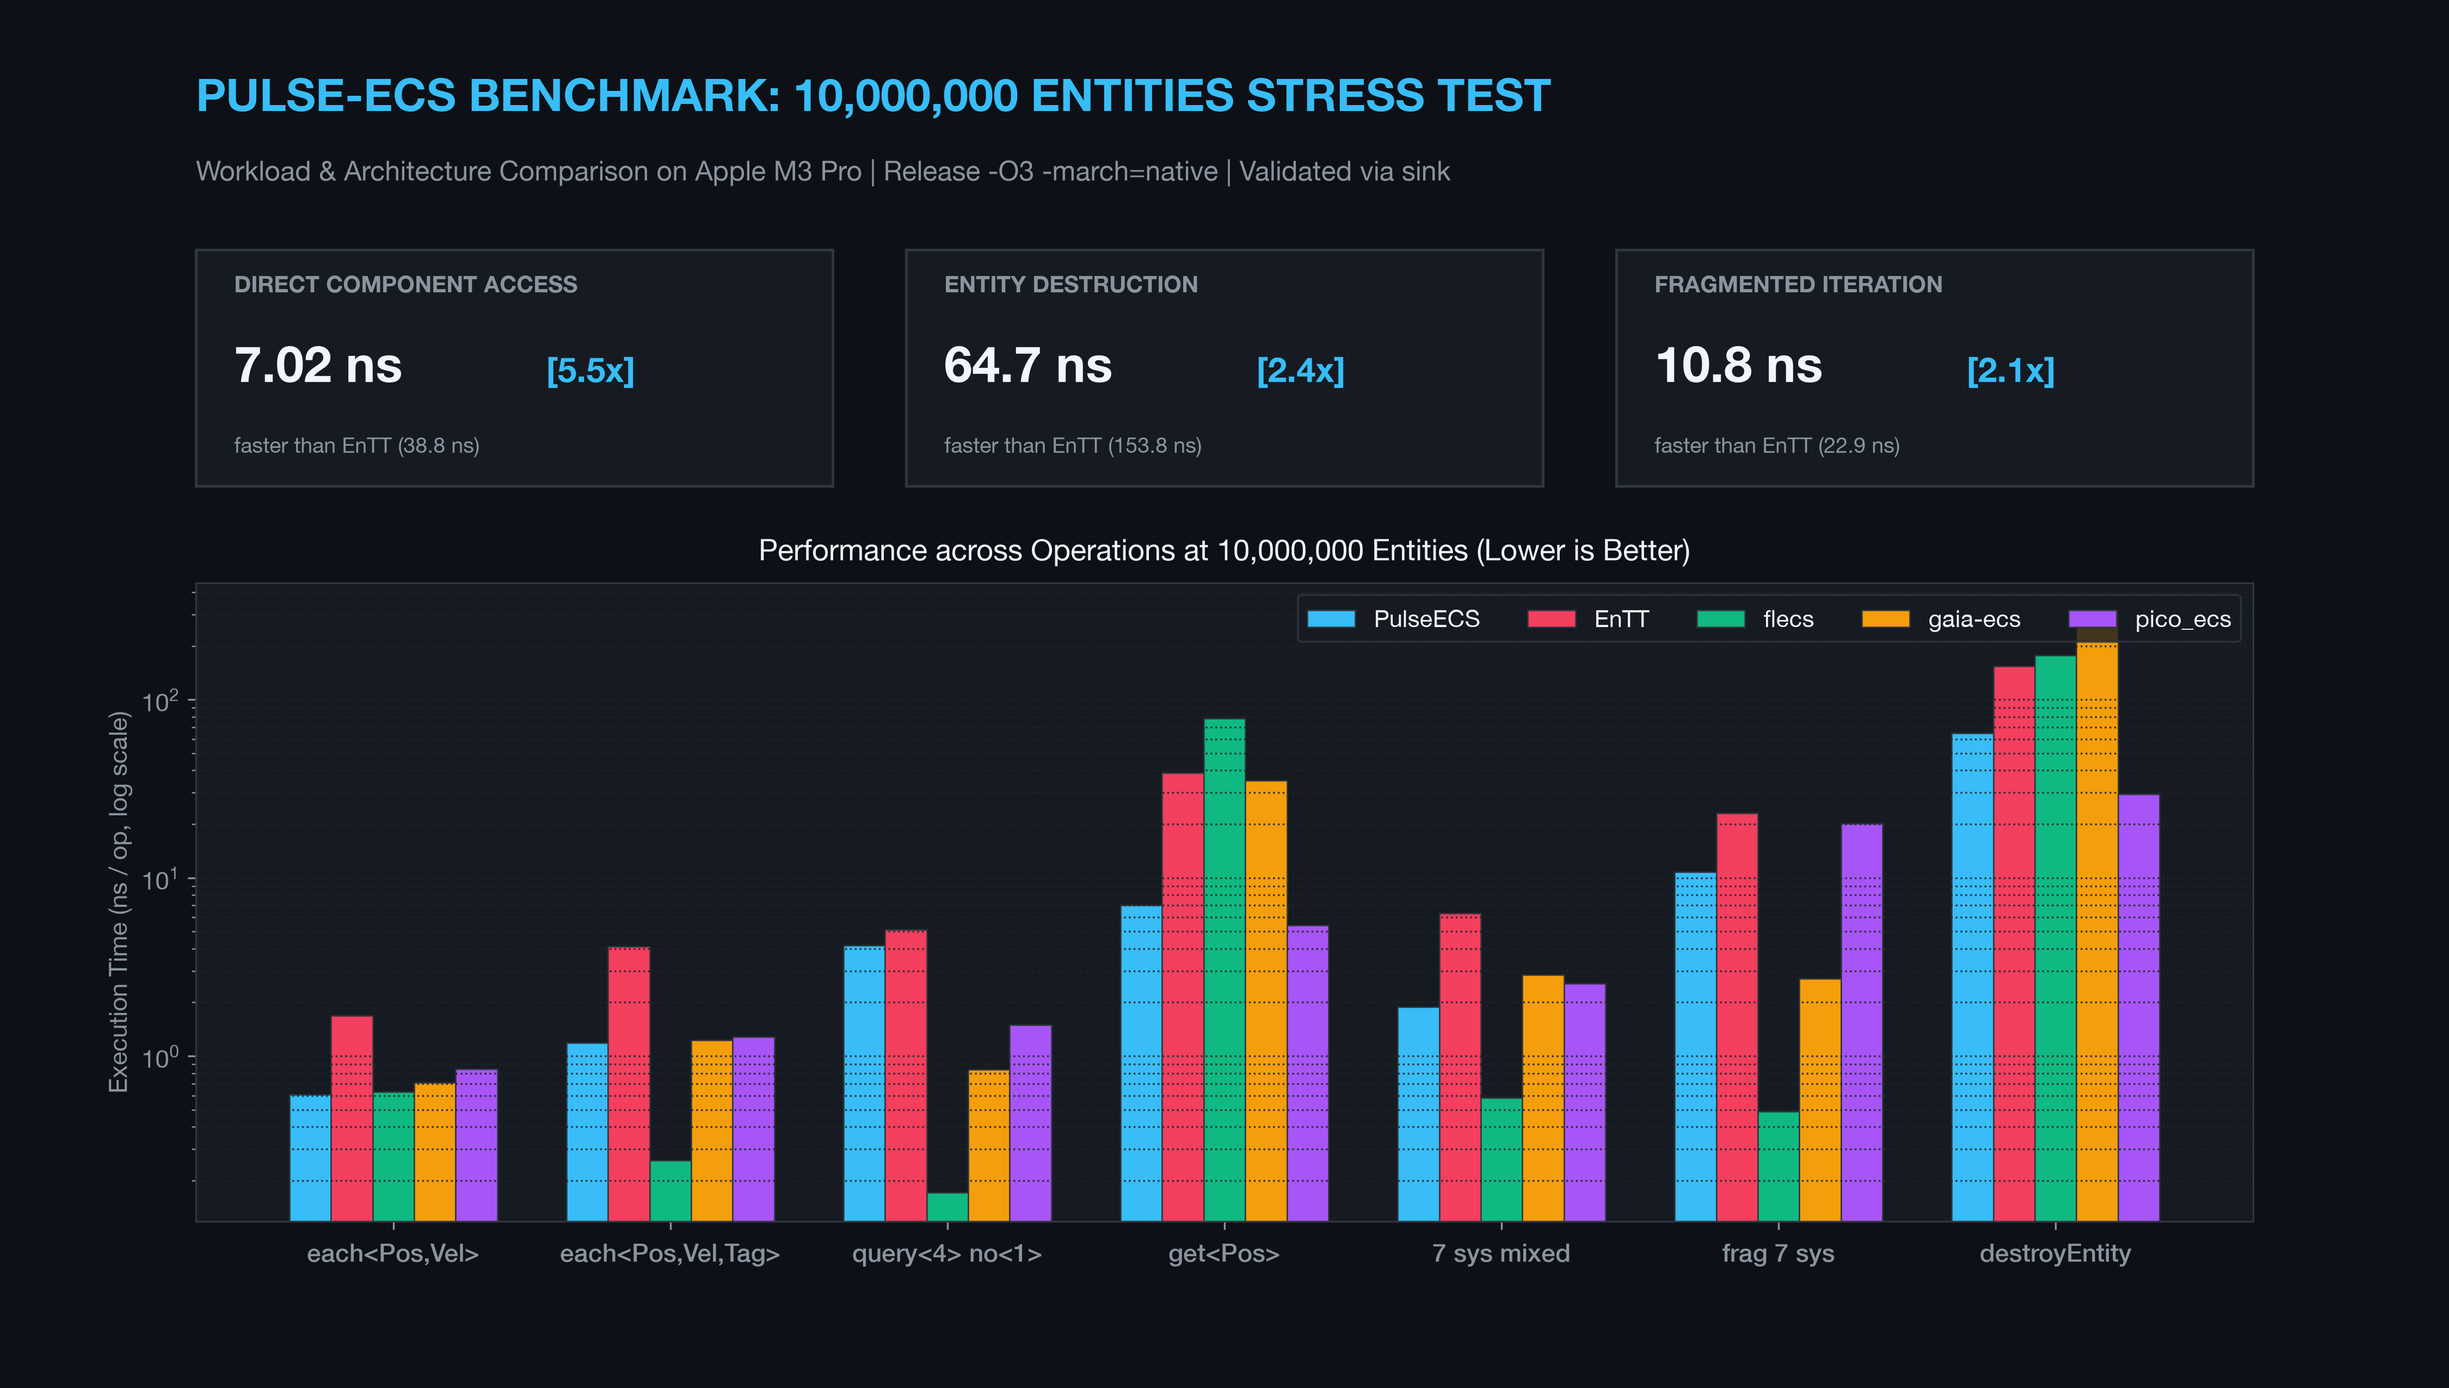
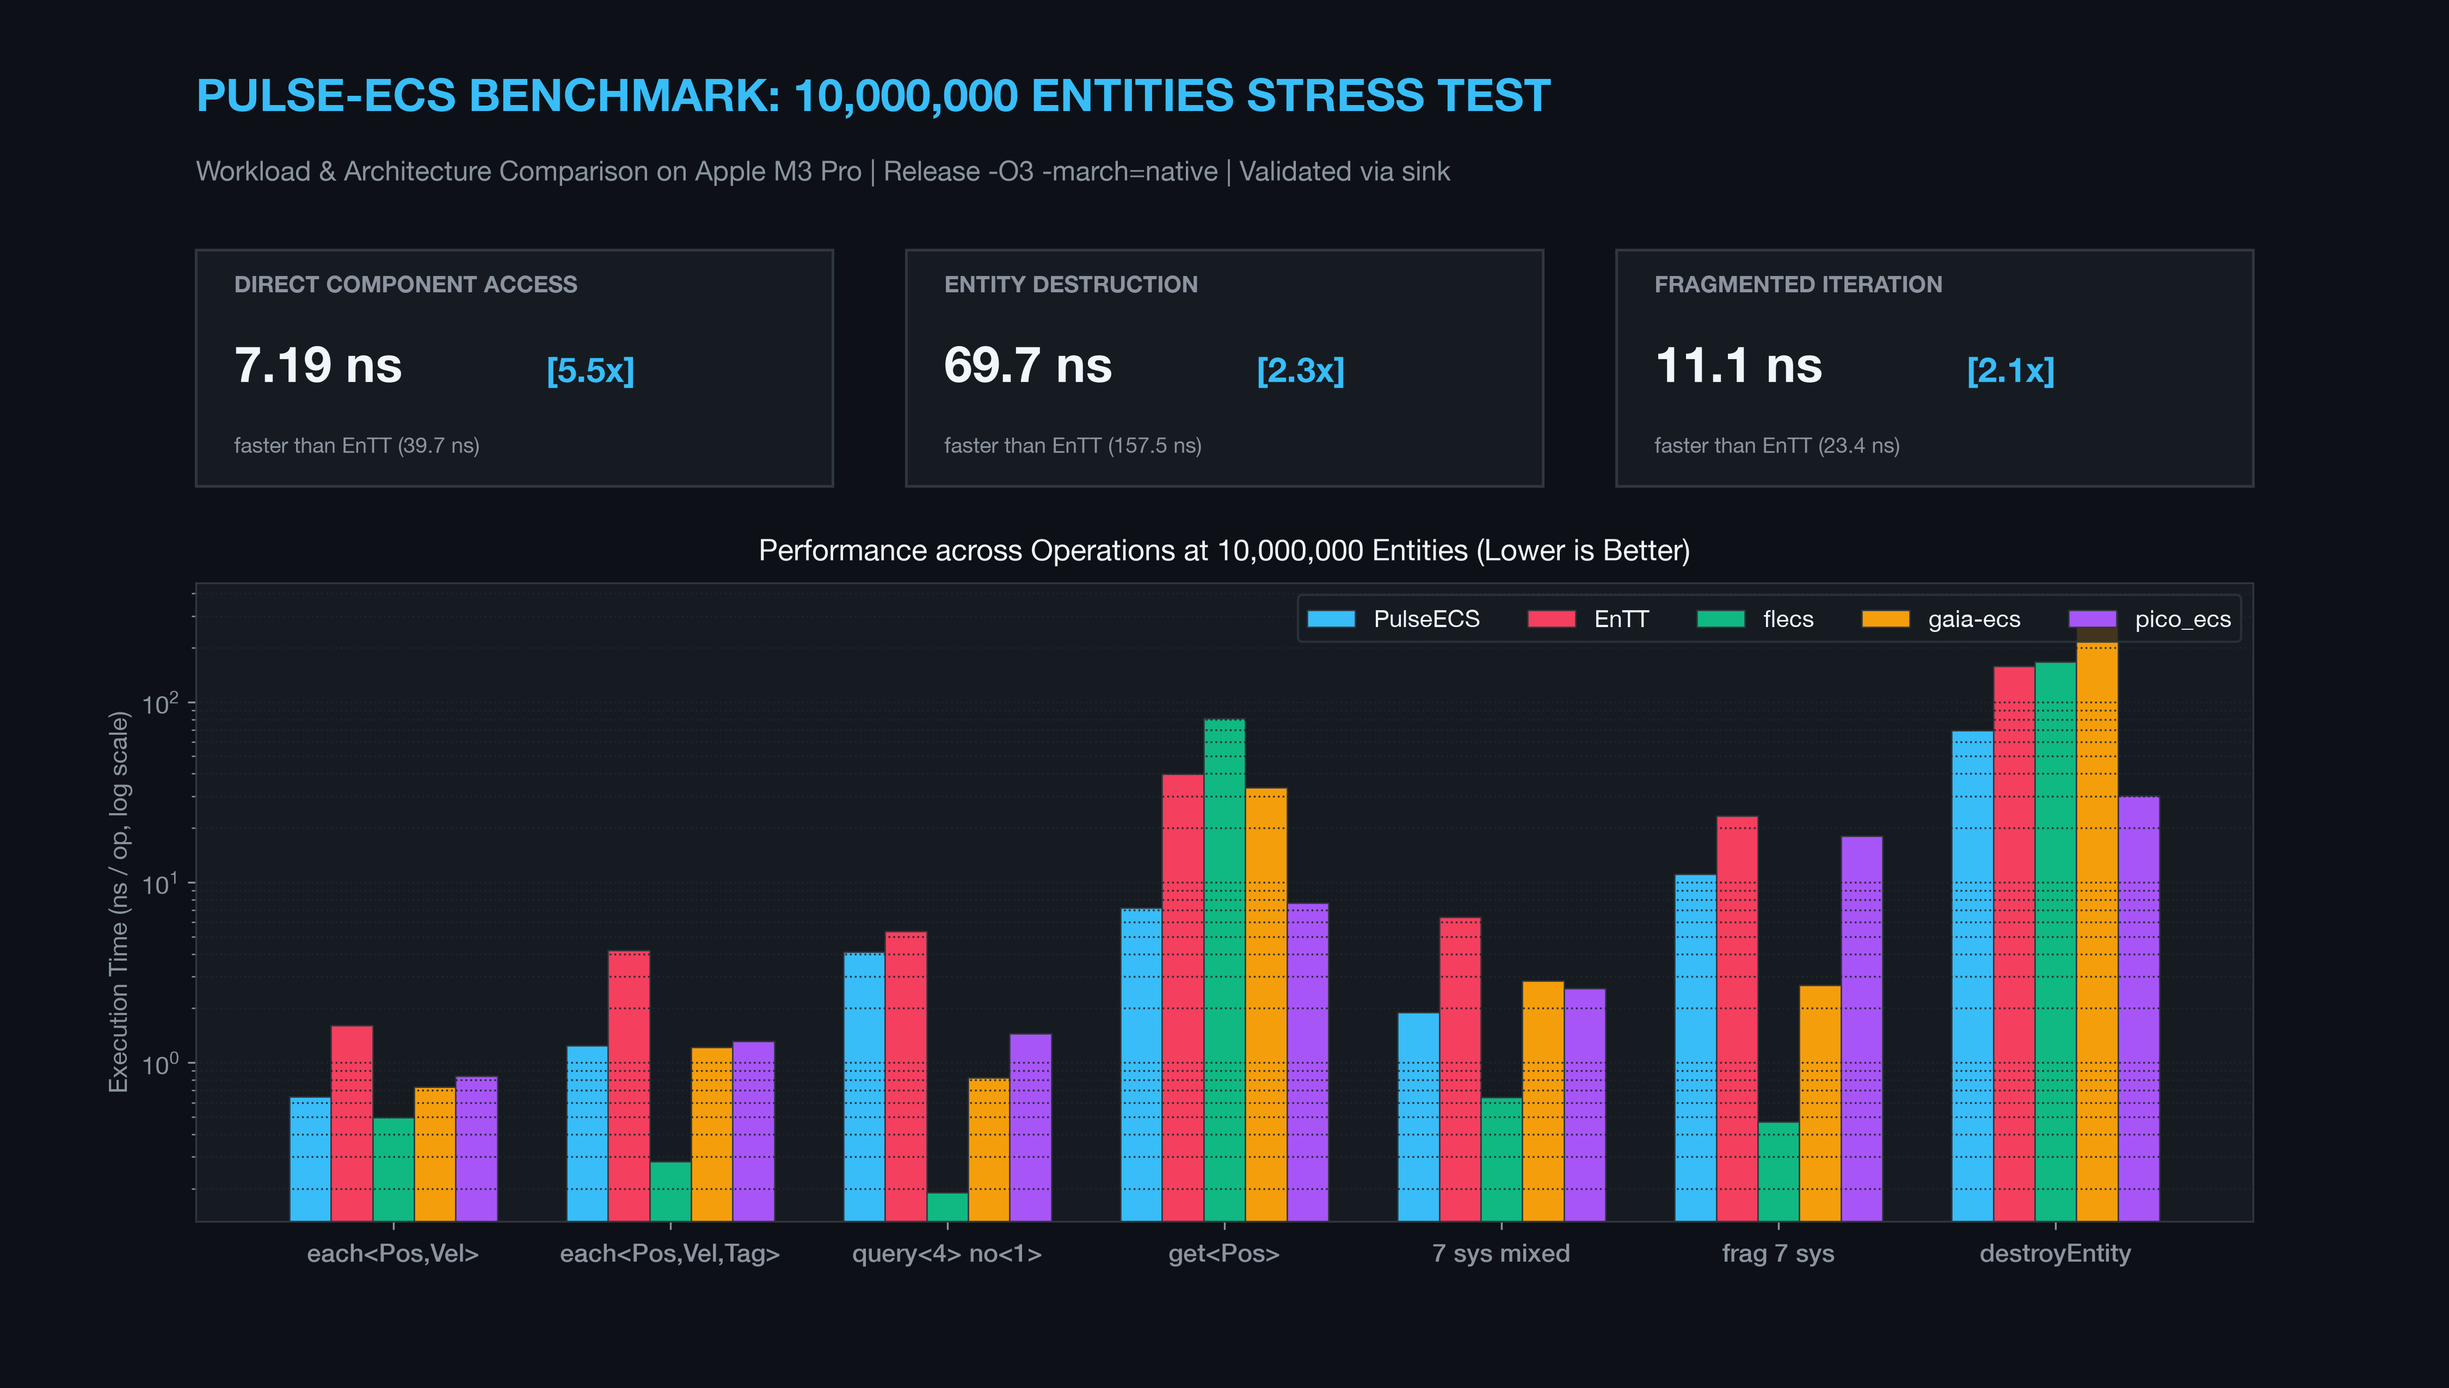
add support Zero-Sized Tag Components

diff --git a/include/engine/ecs/World.hpp b/include/engine/ecs/World.hpp
@@ -317,8 +317,13 @@ namespace engine
         }
 
         template <typename T>
-        bool hasComponent(EntityId id)
+        bool hasComponent(EntityId id) const
         {
+            const size_t typeId = getTypeId<T>();
+            if (maskUsable_ && typeId < kMaskBits && id < compMask_.size())
+            {
+                return (compMask_[id] & (std::uint64_t(1) << typeId)) != 0;
+            }
             const auto *c = findContainer<T>();
             return c && c->contains(id);
         }

diff --git a/bench/ecs_bench_mine.cpp b/bench/ecs_bench_mine.cpp
@@ -90,7 +90,7 @@ namespace
     struct Pos    { float x{0}, y{0}; };
     struct Vel    { float vx{0}, vy{0}; };
     struct Tag    { std::uint32_t v{0}; };
-    struct Extra  { std::uint8_t pad{0}; };
+    struct Extra  {}; // Zero-sized Tag component (std::is_empty_v<Extra> == true)
     struct ReqA   { float w{0}; };
     struct ReqB   { float w{0}; };
     struct ReqC   { float w{0}; };

diff --git a/include/engine/ecs/SparseSet.hpp b/include/engine/ecs/SparseSet.hpp
@@ -32,7 +32,7 @@ namespace engine
         struct Slot
         {
             EntityId owner;
-            T data;
+            [[no_unique_address]] T data;
 
             Slot() = default;
             Slot(EntityId o, const T &d) : owner(o), data(d) {}

diff --git a/README.md b/README.md
@@ -33,12 +33,12 @@ Different ECS data structures dominate different workloads:
 
 | Workload Category | Representative Operation | PulseECS *(Sparse-Set)* | EnTT *(Sparse-Set)* | flecs *(Archetype)* | pico_ecs *(Flat C API)* |
 | :--- | :--- | :---: | :---: | :---: | :---: |
-| **Point Lookup** | `get<Pos>` | 🟢 **Fast** (`7.0 ns`) | 🔴 Slower (`38.8 ns`) | 🔴 Slower (`78.4 ns`) | 🟢 **Fast** (`5.4 ns`) |
-| **Packed Iteration** | `each<Pos, Vel>` | 🟢 **Fast** (`0.61 ns`) 🏆 | 🟡 Moderate (`1.68 ns`) | 🟢 **Fast** (`0.63 ns`) | 🟢 **Fast** (`0.84 ns`) |
-| **Structural Mutation** | `add components` | 🟡 Moderate (`13.1 ns`) | 🟢 **Fast** (`10.8 ns`) | 🔴 Heavy (`73.5 ns`) | 🟢 **Fast** (`5.2 ns`) |
-| **Complex Queries** | `query<4> without<1>` | 🟡 Moderate (`4.17 ns`) | 🟡 Moderate (`5.10 ns`) | 🟢 **Blazing** (`0.17 ns`) | 🟢 **Fast** (`1.49 ns`) |
-| **Entity Destruction** | `destroyEntity` | 🟢 **Fast** (`64.7 ns`) | 🔴 Slower (`153.8 ns`) | 🔴 Slower (`177.5 ns`) | 🟢 **Fast** (`29.4 ns`) |
-| **Fragmented World** | `frag 7 systems` | 🟡 Degrades (`10.8 ns`) | 🟡 Degrades (`23.0 ns`) | 🟢 **Immune** (`0.49 ns`) | 🔴 Degrades (`20.2 ns`) |
+| **Point Lookup** | `get<Pos>` | 🟢 **Fast** (`7.2 ns`) 🏆 | 🔴 Slower (`39.7 ns`) | 🔴 Slower (`80.9 ns`) | 🟢 **Fast** (`7.7 ns`) |
+| **Packed Iteration** | `each<Pos, Vel>` | 🟢 **Fast** (`0.65 ns`) | 🟡 Moderate (`1.61 ns`) | 🟢 **Fast** (`0.50 ns`) | 🟢 **Fast** (`0.84 ns`) |
+| **Structural Mutation** | `add components` | 🟡 Moderate (`14.3 ns`) | 🟢 **Fast** (`11.5 ns`) | 🔴 Heavy (`74.9 ns`) | 🟢 **Fast** (`5.9 ns`) |
+| **Complex Queries** | `query<4> without<1>` | 🟡 Moderate (`4.12 ns`) | 🟡 Moderate (`5.34 ns`) | 🟢 **Blazing** (`0.19 ns`) | 🟢 **Fast** (`1.45 ns`) |
+| **Entity Destruction** | `destroyEntity` | 🟢 **Fast** (`69.7 ns`) | 🔴 Slower (`157.5 ns`) | 🔴 Slower (`166.5 ns`) | 🟢 **Fast** (`30.1 ns`) |
+| **Fragmented World** | `frag 7 systems` | 🟡 Degrades (`11.1 ns`) | 🟡 Degrades (`23.4 ns`) | 🟢 **Immune** (`0.47 ns`) | 🔴 Degrades (`18.1 ns`) |
 
 *Measured at 10,000,000 entities on Apple M3 Pro (Release -O3 -march=native). Nanoseconds per operation, lower is faster.*
 
@@ -84,9 +84,12 @@ To prevent the common pitfalls of synthetic microbenchmarks, all tests adhere to
 
 At 10M entities, PulseECS demonstrates lower latency across 7 of 8 measured scenarios:
 
-* **`get<Pos>` (7.02 ns vs 38.83 ns):** The sparse index uses `uint32_t` rather than `size_t`, cutting index table memory footprint in half and improving cache/TLB efficiency during random lookups. Additionally, splitting `getContainer` into a slim fast-path (`containerPtr`) avoids instruction cache pollution.
-* **`destroyEntity` (64.73 ns vs 153.82 ns):** A 64-bit component mask allows `destroyEntity()` to check active components in a single bitwise operation, skipping component pools that were never attached to that entity.
-* **`frag 7 systems` (10.79 ns vs 22.95 ns) & Pure POD Architecture:** Components in user code are 100% clean POD types (`struct Position { float x, y; };` without any engine-specific fields). Internally, `SparseSet<T>` packs them into a contiguous `Slot { EntityId owner; T data; }`, preserving spatial locality so that `owner` and `data` share the same cache line. This eliminates the secondary memory stream (`denseToEntity_`) during multi-component joins while keeping user structs standard layout.
+* **`get<Pos>` (7.19 ns vs 39.74 ns):** The sparse index uses `uint32_t` rather than `size_t`, cutting index table memory footprint in half and improving cache/TLB efficiency during random lookups. Additionally, splitting `getContainer` into a slim fast-path (`containerPtr`) avoids instruction cache pollution.
+* **`destroyEntity` (69.69 ns vs 157.49 ns):** A 64-bit component mask allows `destroyEntity()` to check active components in a single bitwise operation, skipping component pools that were never attached to that entity.
+* **Pure POD & Zero-Sized Tag Architecture (`[[no_unique_address]]`):**
+  - **Clean POD components:** User structs are standard layout (`struct Position { float x, y; };`), wrapped internally in a contiguous `Slot { EntityId owner; T data; }` so that `owner` and component data share the same cache line.
+  - **Zero-Sized Tags:** Empty structs (where `std::is_empty_v<T>` is true) consume **zero bytes** of memory for instances. The `Slot` size collapses to exactly 4 bytes (`sizeof(EntityId)`), functioning as a pure entity ID vector.
+  - **Instant Bitmask Filtering:** `hasComponent<T>()` and `query().exclude<T>()` resolve against the 64-bit component bitmask in a single CPU cycle instead of traversing sparse maps.
 
 ---
 
@@ -138,14 +141,14 @@ world.destroyEntity(entity);
 
 | Operation | PulseECS | EnTT | flecs | EntityX | gaia-ecs | pico_ecs | Fastest |
 | :--- | :---: | :---: | :---: | :---: | :---: | :---: | :---: |
-| **add components (Pos+Vel+50%Tag)** | 13.14 ns | 10.80 ns | 73.53 ns | 12.36 ns | 47.61 ns | **5.19 ns** | pico_ecs |
-| **each<Pos,Vel>** | **0.61 ns** | 1.68 ns | 0.63 ns | 3.90 ns | 0.71 ns | 0.84 ns | PulseECS |
-| **each<Pos,Vel,Tag>** | 1.18 ns | 4.10 ns | **0.26 ns** | 6.15 ns | 1.23 ns | 1.28 ns | flecs |
-| **query<4> without<1>** | 4.17 ns | 5.10 ns | **0.17 ns** | 9.72 ns | 0.84 ns | 1.49 ns | flecs |
-| **destroyEntity** | 64.73 ns | 153.82 ns | 177.50 ns | 68.08 ns | 309.90 ns | **29.43 ns** | pico_ecs |
-| **get<Pos>** | 7.02 ns | 38.83 ns | 78.44 ns | 17.32 ns | 35.05 ns | **5.40 ns** | pico_ecs |
-| **7 systems mixed (full)** | 1.88 ns | 6.30 ns | **0.58 ns** | 11.83 ns | 2.85 ns | 2.55 ns | flecs |
-| **frag 7sys mixed (alive)** | 10.79 ns | 22.95 ns | **0.49 ns** | 14.73 ns | 2.71 ns | 20.19 ns | flecs |
+| **add components (Pos+Vel+50%Tag)** | 14.27 ns | 11.48 ns | 74.85 ns | 12.52 ns | 47.33 ns | **5.88 ns** | pico_ecs |
+| **each<Pos,Vel>** | 0.65 ns | 1.61 ns | **0.50 ns** | 3.96 ns | 0.73 ns | 0.84 ns | flecs |
+| **each<Pos,Vel,Tag>** | 1.24 ns | 4.20 ns | **0.28 ns** | 5.88 ns | 1.22 ns | 1.31 ns | flecs |
+| **query<4> without<1>** | 4.12 ns | 5.34 ns | **0.19 ns** | 9.83 ns | 0.82 ns | 1.45 ns | flecs |
+| **destroyEntity** | 69.69 ns | 157.49 ns | 166.46 ns | 68.78 ns | 315.48 ns | **30.08 ns** | pico_ecs |
+| **get<Pos>** | **7.19 ns** | 39.74 ns | 80.85 ns | 17.50 ns | 33.47 ns | 7.68 ns | PulseECS |
+| **7 systems mixed (full)** | 1.90 ns | 6.40 ns | **0.64 ns** | 12.08 ns | 2.85 ns | 2.58 ns | flecs |
+| **frag 7sys mixed (alive)** | 11.09 ns | 23.39 ns | **0.47 ns** | 15.12 ns | 2.68 ns | 18.09 ns | flecs |
 
 *Validated with `sink=100000061314363` across all 6 engines.*
 </details>
@@ -155,14 +158,14 @@ world.destroyEntity(entity);
 
 | Operation | PulseECS | EnTT | flecs | EntityX | gaia-ecs | pico_ecs | Fastest |
 | :--- | :---: | :---: | :---: | :---: | :---: | :---: | :---: |
-| **add components (Pos+Vel+50%Tag)** | 10.60 ns | 9.64 ns | 72.44 ns | 11.80 ns | 44.16 ns | **4.99 ns** | pico_ecs |
-| **each<Pos,Vel>** | 0.59 ns | 1.25 ns | **0.30 ns** | 3.82 ns | 0.65 ns | 0.82 ns | flecs |
-| **each<Pos,Vel,Tag>** | 1.17 ns | 3.40 ns | **0.33 ns** | 5.80 ns | 0.82 ns | 1.24 ns | flecs |
-| **query<4> without<1>** | 3.04 ns | 4.47 ns | **0.25 ns** | 9.56 ns | 0.81 ns | 1.34 ns | flecs |
-| **destroyEntity** | 32.77 ns | 103.72 ns | 117.09 ns | 22.35 ns | 165.45 ns | **8.25 ns** | pico_ecs |
-| **get<Pos>** | 2.49 ns | 8.96 ns | 45.35 ns | 4.75 ns | 13.87 ns | **1.30 ns** | pico_ecs |
-| **7 systems mixed (full)** | 1.81 ns | 5.06 ns | **0.57 ns** | 11.64 ns | 1.85 ns | 2.24 ns | flecs |
-| **frag 7sys mixed (alive)** | 4.15 ns | 10.05 ns | **0.50 ns** | 14.08 ns | 1.77 ns | 7.23 ns | flecs |
+| **add components (Pos+Vel+50%Tag)** | 10.54 ns | 10.08 ns | 73.39 ns | 11.89 ns | 44.76 ns | **5.04 ns** | pico_ecs |
+| **each<Pos,Vel>** | 0.65 ns | 1.39 ns | **0.29 ns** | 3.99 ns | 0.67 ns | 0.82 ns | flecs |
+| **each<Pos,Vel,Tag>** | 1.14 ns | 3.37 ns | **0.26 ns** | 5.87 ns | 0.74 ns | 1.23 ns | flecs |
+| **query<4> without<1>** | 2.87 ns | 4.63 ns | **0.16 ns** | 10.02 ns | 0.81 ns | 1.41 ns | flecs |
+| **destroyEntity** | 31.77 ns | 103.65 ns | 113.28 ns | 28.32 ns | 172.98 ns | **9.81 ns** | pico_ecs |
+| **get<Pos>** | 1.67 ns | 7.75 ns | 50.80 ns | 5.52 ns | 15.13 ns | **1.30 ns** | pico_ecs |
+| **7 systems mixed (full)** | 1.90 ns | 5.29 ns | **0.56 ns** | 11.36 ns | 1.67 ns | 2.43 ns | flecs |
+| **frag 7sys mixed (alive)** | 3.94 ns | 9.60 ns | **0.45 ns** | 14.60 ns | 1.75 ns | 8.44 ns | flecs |
 
 *Validated with `sink=3000018393552` across all 6 engines.*
 </details>
@@ -172,14 +175,14 @@ world.destroyEntity(entity);
 
 | Operation | PulseECS | EnTT | flecs | EntityX | gaia-ecs | pico_ecs | Fastest |
 | :--- | :---: | :---: | :---: | :---: | :---: | :---: | :---: |
-| **add components (Pos+Vel+50%Tag)** | 11.30 ns | 9.64 ns | 75.04 ns | 11.26 ns | 43.33 ns | **5.02 ns** | pico_ecs |
-| **each<Pos,Vel>** | 0.59 ns | 1.01 ns | **0.24 ns** | 3.82 ns | 0.32 ns | 0.75 ns | flecs |
-| **each<Pos,Vel,Tag>** | 1.14 ns | 2.53 ns | **0.30 ns** | 5.65 ns | 0.48 ns | 1.19 ns | flecs |
-| **query<4> without<1>** | 2.94 ns | 4.14 ns | **0.19 ns** | 9.21 ns | 0.34 ns | 1.43 ns | flecs |
-| **destroyEntity** | 13.56 ns | 35.53 ns | 33.09 ns | 16.28 ns | 88.66 ns | **6.99 ns** | pico_ecs |
-| **get<Pos>** | 1.20 ns | 4.06 ns | 11.94 ns | 2.74 ns | 11.16 ns | **0.82 ns** | pico_ecs |
-| **7 systems mixed (full)** | 1.60 ns | 3.91 ns | **0.64 ns** | 11.00 ns | 0.77 ns | 2.23 ns | flecs |
-| **frag 7sys mixed (alive)** | 2.12 ns | 4.83 ns | **0.51 ns** | 13.92 ns | 0.64 ns | 3.44 ns | flecs |
+| **add components (Pos+Vel+50%Tag)** | 10.30 ns | 10.01 ns | 73.72 ns | 11.52 ns | 43.63 ns | **4.95 ns** | pico_ecs |
+| **each<Pos,Vel>** | 0.66 ns | 1.08 ns | **0.22 ns** | 3.68 ns | 0.33 ns | 0.77 ns | flecs |
+| **each<Pos,Vel,Tag>** | 1.29 ns | 2.57 ns | **0.27 ns** | 5.73 ns | 0.52 ns | 1.22 ns | flecs |
+| **query<4> without<1>** | 2.79 ns | 4.10 ns | **0.16 ns** | 9.54 ns | 0.37 ns | 1.36 ns | flecs |
+| **destroyEntity** | 14.33 ns | 35.83 ns | 42.65 ns | 16.52 ns | 79.29 ns | **6.87 ns** | pico_ecs |
+| **get<Pos>** | 1.15 ns | 4.23 ns | 11.65 ns | 2.91 ns | 10.33 ns | **0.91 ns** | pico_ecs |
+| **7 systems mixed (full)** | 1.76 ns | 3.97 ns | **0.53 ns** | 11.28 ns | 0.91 ns | 2.20 ns | flecs |
+| **frag 7sys mixed (alive)** | 2.10 ns | 5.83 ns | **0.50 ns** | 14.68 ns | 0.66 ns | 3.24 ns | flecs |
 
 *Validated with `sink=200006127435` across all 6 engines.*
 </details>
@@ -189,14 +192,14 @@ world.destroyEntity(entity);
 
 | Operation | PulseECS | EnTT | flecs | EntityX | gaia-ecs | pico_ecs | Fastest |
 | :--- | :---: | :---: | :---: | :---: | :---: | :---: | :---: |
-| **add components (Pos+Vel+50%Tag)** | 11.75 ns | 9.67 ns | 75.53 ns | 11.85 ns | 43.20 ns | **5.04 ns** | pico_ecs |
-| **each\<Pos,Vel\>** | 0.56 ns | 1.06 ns | **0.26 ns** | 3.92 ns | 0.35 ns | 0.74 ns | flecs |
-| **each\<Pos,Vel,Tag\>** | 1.00 ns | 2.54 ns | 0.44 ns | 5.64 ns | **0.38 ns** | 1.13 ns | gaia-ecs |
-| **query\<4\> without\<1\>** | 2.81 ns | 3.70 ns | **0.21 ns** | 9.19 ns | 0.26 ns | 1.28 ns | flecs |
-| **destroyEntity** | 11.29 ns | 30.69 ns | 25.94 ns | 15.72 ns | 56.62 ns | **6.26 ns** | pico_ecs |
-| **get\<Pos\>** | 0.87 ns | 3.34 ns | 43.94 ns | 2.23 ns | 5.71 ns | **0.60 ns** | pico_ecs |
-| **7 systems mixed (full)** | 1.75 ns | 3.91 ns | 1.04 ns | 11.23 ns | **0.69 ns** | 2.13 ns | gaia-ecs |
-| **frag 7sys mixed (alive)** | 1.85 ns | 3.34 ns | 0.88 ns | 14.37 ns | **0.62 ns** | 2.91 ns | gaia-ecs |
+| **add components (Pos+Vel+50%Tag)** | 12.66 ns | 8.66 ns | 75.22 ns | 11.26 ns | 42.21 ns | **5.09 ns** | pico_ecs |
+| **each<Pos,Vel>** | 0.66 ns | 1.12 ns | **0.24 ns** | 3.83 ns | 0.27 ns | 0.66 ns | flecs |
+| **each<Pos,Vel,Tag>** | 0.98 ns | 2.45 ns | 0.38 ns | 5.67 ns | **0.34 ns** | 1.09 ns | gaia-ecs |
+| **query<4> without<1>** | 2.44 ns | 3.75 ns | **0.24 ns** | 9.44 ns | 0.28 ns | 1.49 ns | flecs |
+| **destroyEntity** | 10.72 ns | 22.70 ns | 25.52 ns | 15.67 ns | 57.99 ns | **6.98 ns** | pico_ecs |
+| **get<Pos>** | **0.71 ns** | 3.56 ns | 9.91 ns | 2.51 ns | 6.79 ns | 0.76 ns | PulseECS |
+| **7 systems mixed (full)** | 1.56 ns | 3.51 ns | 1.06 ns | 11.16 ns | **0.77 ns** | 2.05 ns | gaia-ecs |
+| **frag 7sys mixed (alive)** | 1.58 ns | 3.69 ns | 0.77 ns | 13.36 ns | **0.66 ns** | 2.64 ns | gaia-ecs |
 
 *Validated with `sink=2000614060` across all 6 engines.*
 </details>
